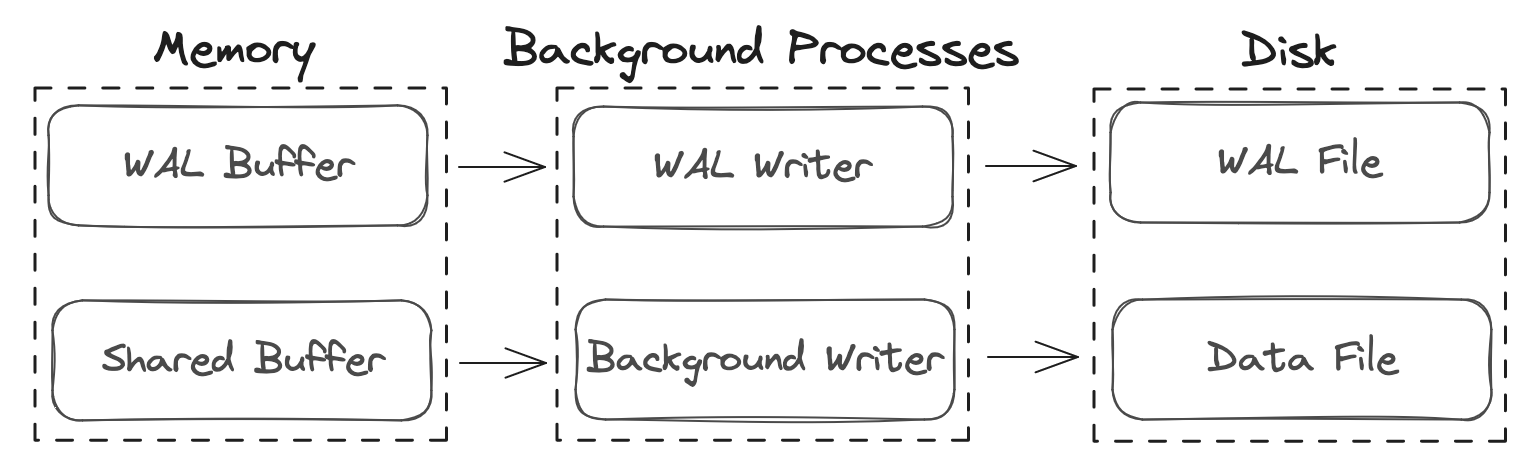
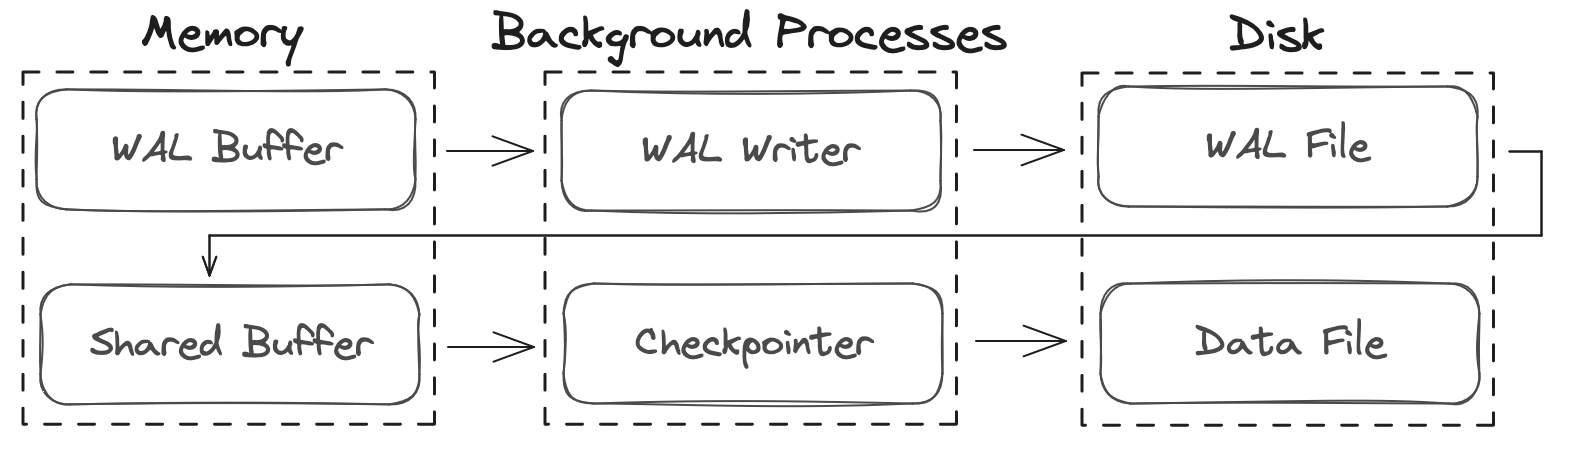
misc improvements

diff --git a/docs/3_wal.md b/docs/3_wal.md
@@ -8,15 +8,22 @@ The WAL records are stored in a series of segments, called WAL files. These reco
 
 Each WAL record is identified by a Log Sequence Number (LSN). The LSN is stored in the page header of each data page, and is used to track the progress of replication or crash recovery, as well as ensuring that changes are applied in the correct order.
 
-## Checkpoints and Replication
+## Checkpoints
 
-![WAL Lifecycle Example](../image/wal_lifecycle.png)
+<p align="center">
+  <img src="../image/wal_lifecycle.png" width="800" />
+</p>
 
 When a client backend process writes a change to the database, the change is first written to the WAL buffer in memory. Any shared buffers that are impacted by that change are also marked as dirty. Periodically, the shared buffers are flushed to disk, and the changes are written to the data file. This process is called a `checkpoint`.
 
-TODO:
+## Replication
 
-- Explain how WAL is used in replication
-- Explain checkpointer process
+Postgres uses the WAL mechanism for replication, allowing changes made to a primary server to be replayed on the on one or more standby servers. Replication can be synchronous or asynchronous, and can be used for high availability, read scaling, or disaster recovery.
+
+<p align="center">
+  <img src="../image/wal_replication.png" width="500" />
+</p>
+
+In streaming replication, the primary server continuously streams WAL records to the replicas. The replicas apply the changes in the same order as they were made on the primary, ensuring that the data remains consistent across all servers. The Log Sequence Numbers (LSN) in the WAL files are used to track the progress of replication, allowing replicas to request only the new WAL records when catching up.
 
 [Heap Storage](2_heap_storage.md) | [Introduction](../README.md) | [Query Parser](4_query_parser.md)

diff --git a/docs/1_process_architecture.md b/docs/1_process_architecture.md
@@ -8,7 +8,9 @@ Postgres uses a multi-process architecture for handling client connections and q
 - **Backend Processes**: Backend processes are responsible for handling client queries and managing database operations on their behalf. Each backend process is associated with a single client connection.
 - **Background Processes**: Background processes are used for performing maintenance tasks and background operations. Some examples would be the `Checkpointer` which flushes dirty data from memory to disk, the `WalWriter` which writes WAL data to disk, and the `Autovacuum Launcher` which performs automatic vacuum and analyze operations to maintain database health.
 
-![Postgres Client Process Diagram](../image/postgres_client_processes.png)
+<p align="center">
+  <img src="../image/postgres_processes.png" width="800" />
+</p>
 
 Postgres will maintain a pool of backend processes that can be assigned to a client when a new connection is established. If there are no available backend processes in the pool, the postmaster will spawn a new backend process to handle the connection.
 

diff --git a/docs/2_heap_storage.md b/docs/2_heap_storage.md
@@ -4,7 +4,9 @@ When you insert or update rows in a table, PostgreSQL stores the data in segment
 
 Each segment file is further divided into fixed-size pages, which are the smallest unit of storage in Postgres. Each page typically stores multiple tuples, and the layout of a page in a segment file can be seen in the diagram below.
 
-![Postgres Page Layout Example](../image/postgres_page_layout.png)
+<p align="center">
+  <img src="../image/postgres_page_layout.png" width="750" />
+</p>
 
 The [page header](https://github.com/postgres/postgres/blob/master/src/include/storage/bufpage.h) contains metadata about the page such as the page checksum, pointers to the upper and lower tuples, and the total number of tuples stored.
 
